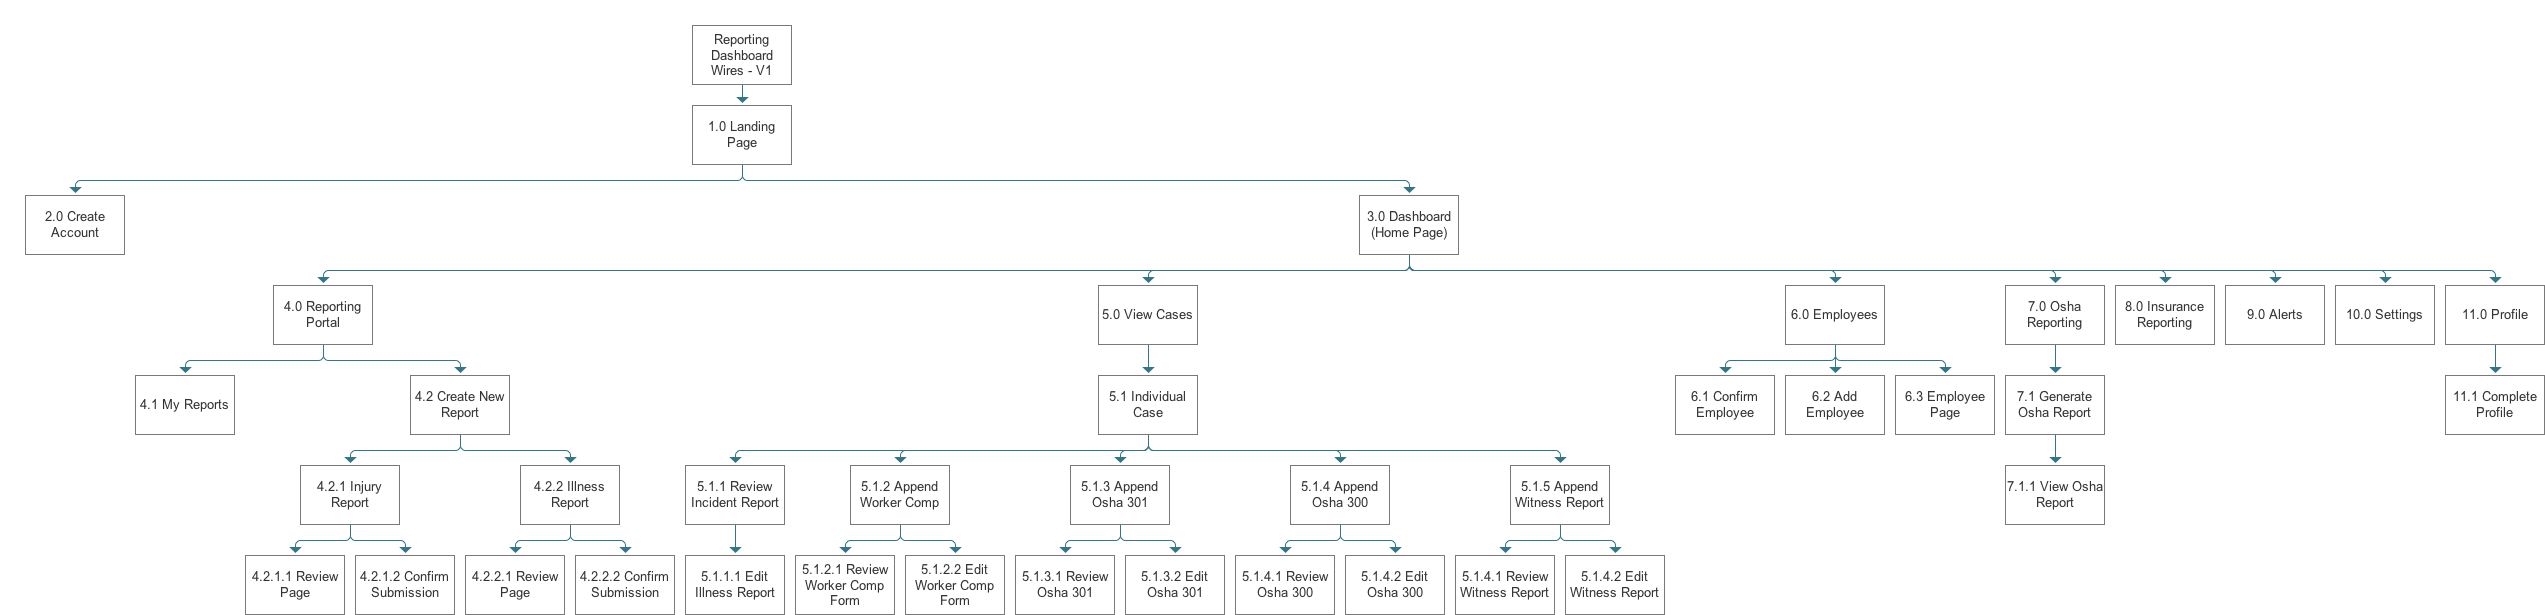
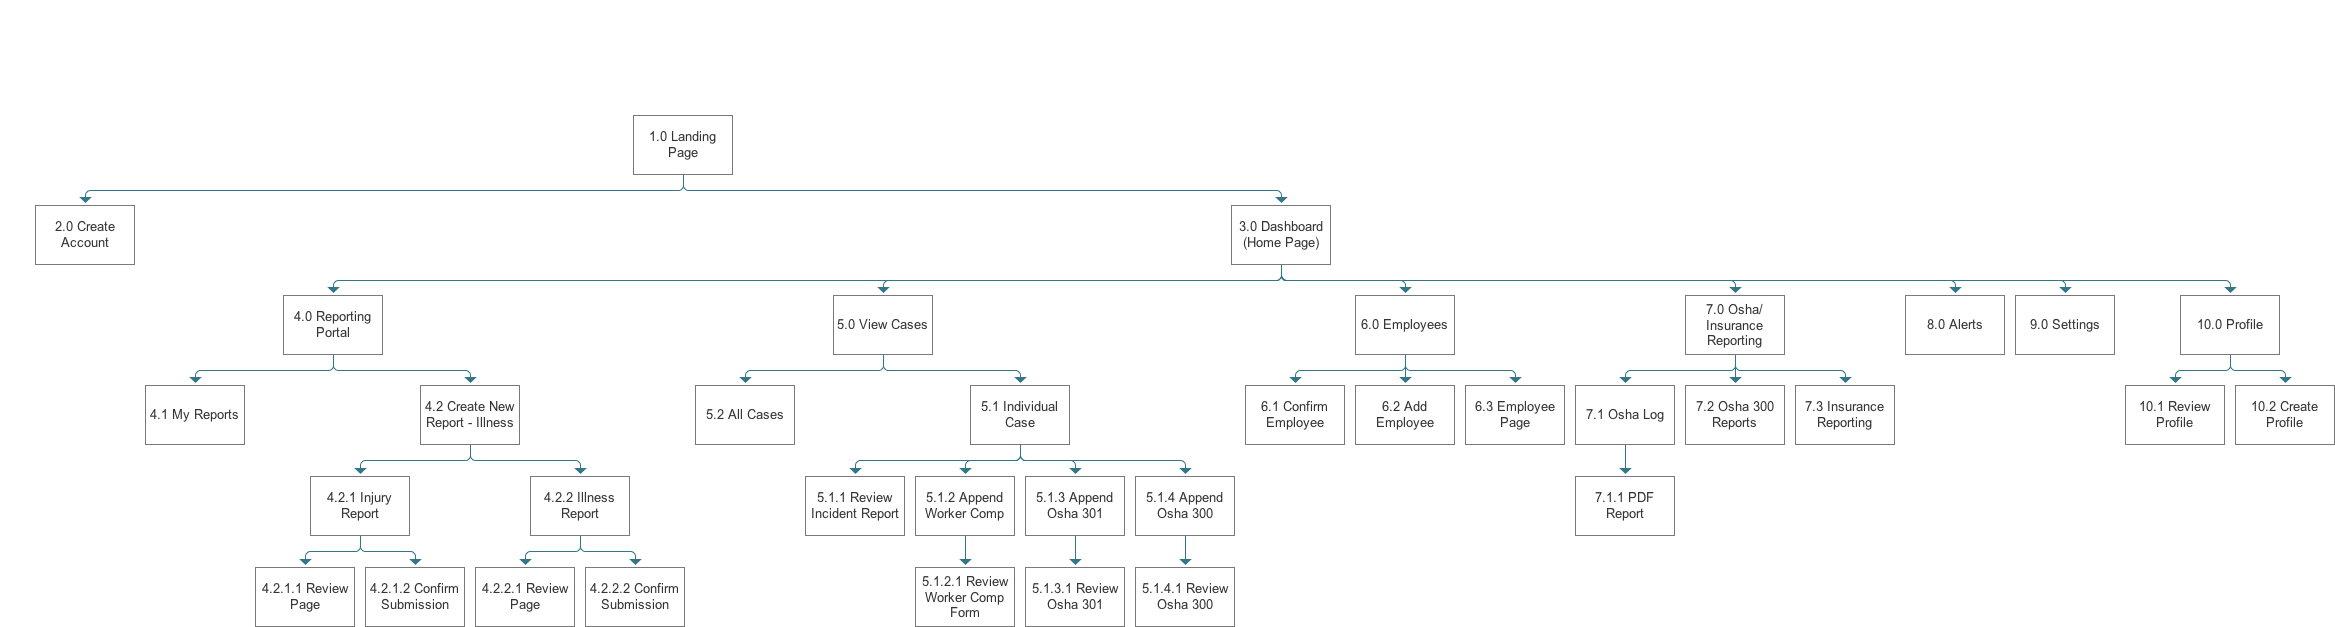
Add Dashboard Project Updates

diff --git a/projects/dashboard.php b/projects/dashboard.php
@@ -129,7 +129,7 @@
           </div>
           <div class="row">
             <div class="col-sm-6 visible-lg visible-md visible-sm">
-              <img class="product" alt="placeholder" src="/img/dashboard/v2wire.png">
+              <img class="product" alt="placeholder" src="/img/dashboard/v2wire3.png">
 
             </div>
             <div class="col-sm-6">
@@ -222,7 +222,7 @@
                     <p>These are some of the very early sketches that were completed.</p>
                   </div>
                   <div class="col-sm-7">
-                    PICTURE HERE
+                    <img class="portfolio_picture" alt="Sketches" src="/img/dashboard/sketches.jpg">
                   </div>
                 </div>
               </div>
@@ -240,13 +240,13 @@
                     <p>The first version of the wireframes were developed to better understand what features were needed on each of the pages. They were very rough, but helped solidify the navigation structure and the form design.</p>
                   </div>
                   <div class="col-sm-5">
-                    PICTURE HERE
+                    <img class="portfolio_picture" alt="Version 1 of Wireframes" src="/img/dashboard/v1wires.jpg">
                   </div>
                   <div class="col-sm-7">
                     <p>The second version of the wireframes were created to showcase the design of the system.</p>
                   </div>
                   <div class="col-sm-5">
-                    <img class="portfolio_picture" alt="Version 2 of Wireframes" src="/img/dashboard/v2wire.png">
+                    <img class="portfolio_picture" alt="Version 2 of Wireframes" src="/img/dashboard/v2wire2.png">
                   </div>
                 </div>
               </div>
